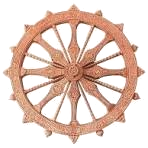
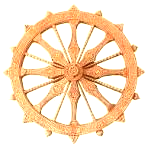
feat: ultra-clear Konark Chakra and Nila Chakra background in admit card

diff --git a/dashboard.html b/dashboard.html
@@ -308,34 +308,38 @@
             z-index: 4;
         }
 
-        /* Background Motif 1: Authentic Konark Chakra (Large & Clearly Visible) */
+        /* Background Motif 1: Authentic Konark Chakra (Extra Large & Ultra Clearly Visible) */
         .admit-bg-konark {
             position: absolute;
-            right: -25px;
+            right: -10px;
             top: 50%;
             transform: translateY(-50%);
-            width: clamp(230px, 56%, 340px);
+            width: clamp(250px, 60%, 360px);
             height: auto;
             aspect-ratio: 1 / 1;
-            opacity: 0.52;
+            opacity: 0.76;
             pointer-events: none;
             z-index: 1;
-            filter: drop-shadow(0 0 24px rgba(245, 158, 11, 0.65)) brightness(1.22) contrast(1.18) saturate(1.25);
+            background: radial-gradient(circle at center, rgba(245, 158, 11, 0.22) 0%, rgba(217, 119, 6, 0.08) 55%, transparent 75%);
+            border-radius: 50%;
+            filter: drop-shadow(0 0 28px rgba(245, 158, 11, 0.8)) brightness(1.25) contrast(1.15) saturate(1.25);
             animation: konarkGentleGlow 7s ease-in-out infinite alternate;
         }
 
-        /* Background Motif 2: Authentic Shree Mandira Nila Chakra with Patitapabana Bana (Large & Clearly Visible) */
+        /* Background Motif 2: Authentic Shree Mandira Nila Chakra with Patitapabana Bana (Large & Ultra Clearly Visible) */
         .admit-bg-nilachakra {
             position: absolute;
             left: -15px;
             bottom: -20px;
-            width: clamp(190px, 47%, 290px);
+            width: clamp(200px, 48%, 300px);
             height: auto;
             aspect-ratio: 1 / 1;
-            opacity: 0.56;
+            opacity: 0.68;
             pointer-events: none;
             z-index: 1;
-            filter: drop-shadow(0 0 24px rgba(56, 189, 248, 0.65)) brightness(1.25) contrast(1.2) saturate(1.3);
+            background: radial-gradient(circle at center, rgba(56, 189, 248, 0.20) 0%, rgba(30, 58, 138, 0.08) 55%, transparent 75%);
+            border-radius: 50%;
+            filter: drop-shadow(0 0 28px rgba(56, 189, 248, 0.75)) brightness(1.25) contrast(1.2) saturate(1.3);
         }
 
         .chakra-watermark-img {
@@ -350,8 +354,8 @@
         }
 
         @keyframes konarkGentleGlow {
-            0% { opacity: 0.48; transform: translateY(-50%) rotate(0deg) scale(1); }
-            100% { opacity: 0.58; transform: translateY(-50%) rotate(4deg) scale(1.03); }
+            0% { opacity: 0.72; transform: translateY(-50%) rotate(0deg) scale(1); }
+            100% { opacity: 0.84; transform: translateY(-50%) rotate(4deg) scale(1.03); }
         }
 
         .id-card-content-wrap {
@@ -638,7 +642,7 @@
             }
 
             .admit-bg-konark, .admit-bg-nilachakra {
-                opacity: 0.60 !important;
+                opacity: 0.78 !important;
                 -webkit-print-color-adjust: exact !important;
                 print-color-adjust: exact !important;
             }
@@ -696,14 +700,14 @@
             }
             .admit-bg-konark {
                 width: clamp(170px, 48vw, 240px);
-                right: -15px;
-                opacity: 0.46;
+                right: -10px;
+                opacity: 0.70;
             }
             .admit-bg-nilachakra {
                 width: clamp(140px, 42vw, 210px);
                 left: -12px;
                 bottom: -12px;
-                opacity: 0.50;
+                opacity: 0.64;
             }
             .admit-card-header {
                 flex-direction: column;
@@ -764,11 +768,11 @@
             }
             .admit-bg-konark {
                 width: clamp(140px, 45vw, 190px);
-                opacity: 0.44;
+                opacity: 0.68;
             }
             .admit-bg-nilachakra {
                 width: clamp(120px, 40vw, 170px);
-                opacity: 0.46;
+                opacity: 0.62;
             }
             .admit-gov-title {
                 font-size: 0.62rem;
